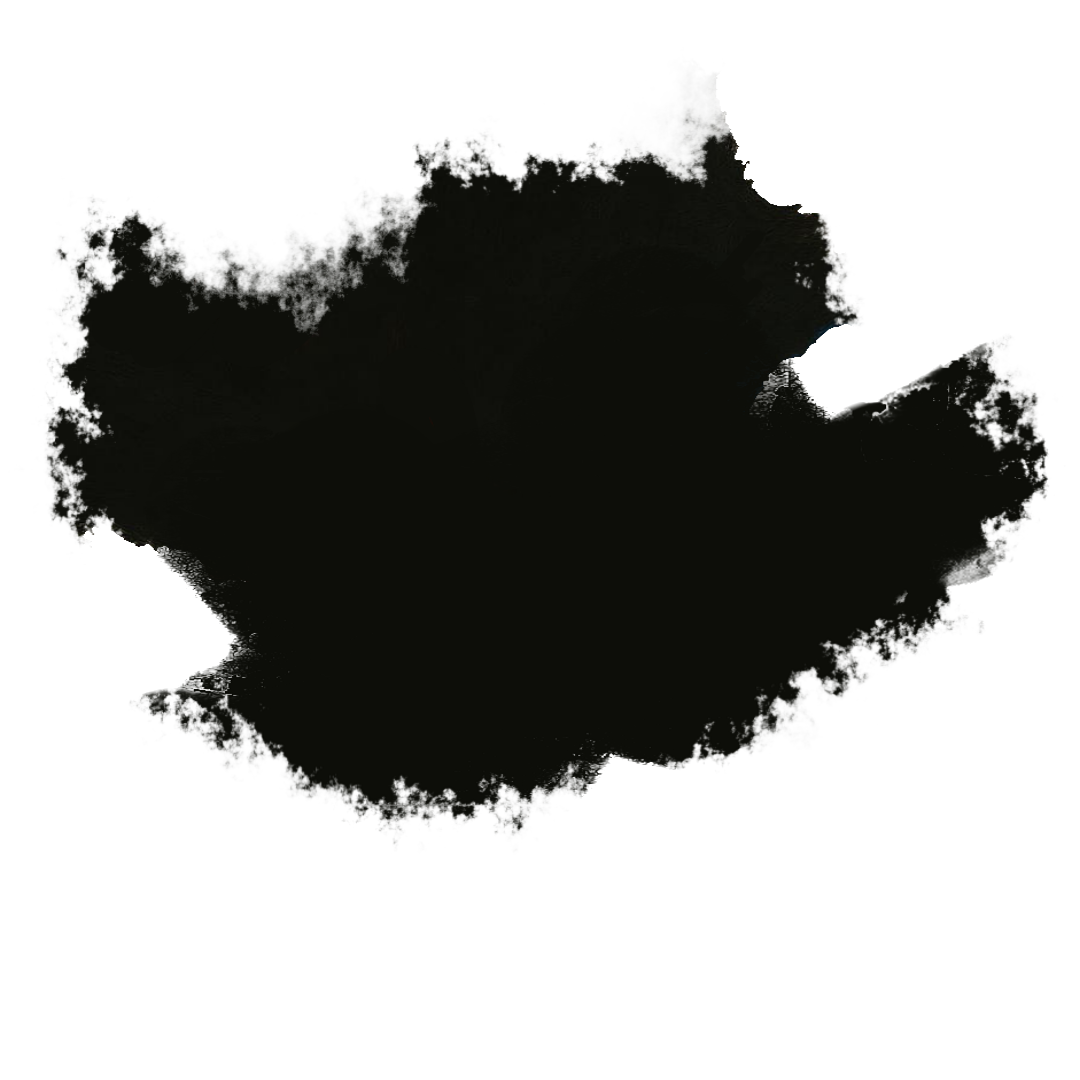
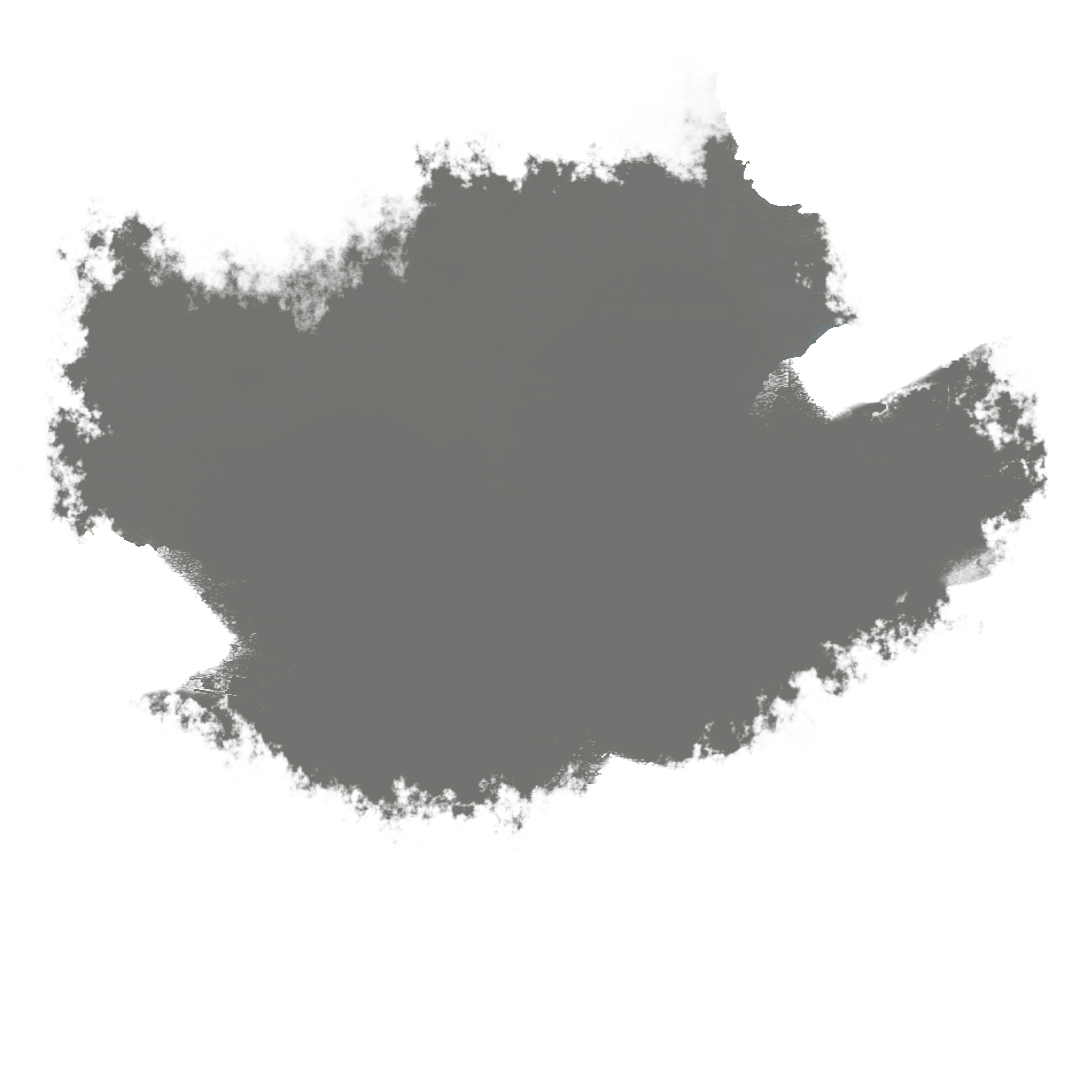
2

diff --git a/TP1 PROTOTIPO/sketch.js b/TP1 PROTOTIPO/sketch.js
@@ -7,7 +7,7 @@ let t = 0; // Variable de tiempo para la vibración lenta
 function preload(){
   imgFondo = loadImage("data/imgfondo3.jpg");
 
-  imgBlanco= loadImage("data/blanco02.png");
+  
   
   imgAmarillo = loadImage("data/amarillo01.png");
   imgNegro= loadImage("data/negro01.png");
@@ -21,24 +21,32 @@ function preload(){
 }
 
 function setup() {
-  createCanvas(windowWidth, windowHeight);
+  createCanvas(500, windowHeight);
   mic = new p5.AudioIn();
   mic.start();
+  userStartAudio(); // Importante para navegadores modernos
+  fft = new p5.FFT();
+  fft.setInput(mic);
 }
 
 let vibrar = false;
 let vibrarLento = false;
-let colorVibrante = false;
-let colorOscuro = false;
+
+
+
+
+let colorNegro = [0, 0, 0];
+
+let colorRojo = [173, 5, 0];
+
+let colorAmarillo = [240, 174, 0];
+
+let colorAzul = [19, 49, 154];
 
 let offsetNegro = 0;
-let offsetNegro1 = 0;
-let offsetNegro2 = 0;
-let offsetOtros = 0;
+let offsetColor = 0;
 let velNegro = 0;
-let velNegro1 = 0;
-let velNegro2 = 0;
-let velOtros = 0;
+let velColor = 0;
 
 function draw() {
   background(90);
@@ -46,187 +54,125 @@ function draw() {
   ellipseMode(CORNER);
 
   let micLevel = mic.getLevel();
-  fill(255);
-  ellipse(1,1, micLevel*1000);
+
+  let spectrum = fft.analyze();
+  let graves = fft.getEnergy("bass");
+  let agudos = fft.getEnergy("treble");
+
+  if (agudos > 30) {
+    velColor = 3;
+  } else {
+    velColor = 0;
+  }
+  if (graves > 30) {
+    velNegro = -3;
+  } else {
+    velNegro = 0;
+  }
 
   t += 0.02; // Incrementa el tiempo para la vibración lenta
 
   // Vibración individual para cada imagen
-  let vibNegroX, vibNegroY, vibNegro2X, vibNegro2Y;
-  let vibAmarilloX, vibAmarilloY, vibRojoX, vibRojoY;
-  let vibAzulX, vibAzulY, vibAmarillo2X, vibAmarillo2Y;
-  let vibRojo2X, vibRojo2Y, vibAzul2X, vibAzul2Y;
+  let vibNegroX, vibNegroY, vibAmarilloX, vibAmarilloY, vibRojoX, vibRojoY, vibAzulX, vibAzulY;
+  
 
   if (vibrarLento) {
     // Vibración lenta y amplia usando sin/cos
-    vibNegroX = sin(t) * 30;
-    vibNegroY = cos(t) * 30;
-    vibNegro2X = sin(t+1) * 30;
-    vibNegro2Y = cos(t+1) * 30;
-    vibAmarilloX = sin(t+2) * 30;
-    vibAmarilloY = cos(t+2) * 30;
-    vibRojoX = sin(t+3) * 30;
-    vibRojoY = cos(t+3) * 30;
-    vibAzulX = sin(t+4) * 30;
-    vibAzulY = cos(t+4) * 30;
-    vibAmarillo2X = sin(t+5) * 30;
-    vibAmarillo2Y = cos(t+5) * 30;
-    vibRojo2X = sin(t+6) * 30;
-    vibRojo2Y = cos(t+6) * 30;
-    vibAzul2X = sin(t+7) * 30;
-    vibAzul2Y = cos(t+7) * 30;
+    vibNegroX = sin(t) * 50;
+    vibNegroY = cos(t) * 50;
+    vibAmarilloX = sin(t+1) * 50;
+    vibAmarilloY = cos(t+1) * 50;
+    vibRojoX = sin(t+2) * 50;
+    vibRojoY = cos(t+2) * 50;
+    vibAzulX = sin(t+3) * 50;
+    vibAzulY = cos(t+3) * 50;
+  
   } else if (vibrar) {
     // Vibración rápida y pequeña
     vibNegroX = random(-3,3);
     vibNegroY = random(-3,3);
-    vibNegro2X = random(-3,3);
-    vibNegro2Y = random(-3,3);
+    
     vibAmarilloX = random(-3,3);
     vibAmarilloY = random(-3,3);
     vibRojoX = random(-3,3);
     vibRojoY = random(-3,3);
     vibAzulX = random(-3,3);
     vibAzulY = random(-3,3);
-    vibAmarillo2X = random(-3,3);
-    vibAmarillo2Y = random(-3,3);
-    vibRojo2X = random(-3,3);
-    vibRojo2Y = random(-3,3);
-    vibAzul2X = random(-3,3);
-    vibAzul2Y = random(-3,3);
+    
+    
   } else {
     // Sin vibración
-    vibNegroX = vibNegroY = vibNegro2X = vibNegro2Y = 0;
-    vibAmarilloX = vibAmarilloY = vibRojoX = vibRojoY = 0;
-    vibAzulX = vibAzulY = vibAmarillo2X = vibAmarillo2Y = 0;
-    vibRojo2X = vibRojo2Y = vibAzul2X = vibAzul2Y = 0;
+    vibNegroX = vibNegroY  = vibAmarilloX = vibAmarilloY = vibRojoX = vibRojoY = vibAzulX = vibAzulY  = 0;
+    
+    
+   
   }
 
-  // Antes de cada image(), pon el tint adecuado
-  if (colorVibrante) {
-    tint(255, 255, 0, 255); // Amarillo brillante (puedes variar)
-  } else if (colorOscuro) {
-    tint(50, 50, 50, 180); // Oscuro y apagado
-  } else {
-    noTint();
-  }
-  image(imgNegro, 320 + vibNegroX + offsetNegro1, 25 + vibNegroY, width, height);
+  
 
-  if (colorVibrante) {
-    tint(0, 255, 255, 255); // Cian brillante
-  } else if (colorOscuro) {
-    tint(50, 50, 80, 180);
-  } else {
-    noTint();
-  }
-  image(imgNegro2, -200 + vibNegro2X + offsetNegro2, -150 + vibNegro2Y, width, height);
+ 
+  //posicion de las manchas con sus colores originales
+tint(colorNegro);
+image(imgNegro, 200 + vibNegroX + offsetNegro, 25 + vibNegroY, width, height);
+image(imgNegro2, -100 + vibNegroX + offsetNegro, -150 + vibNegroY, width, height);
+noTint();
 
-  if (colorVibrante) {
-    tint(255, 0, 255, 255); // Magenta brillante
-  } else if (colorOscuro) {
-    tint(80, 50, 50, 180);
-  } else {
-    noTint();
-  }
-  image(imgAmarillo, -100 + vibAmarilloX + offsetOtros, 0 + vibAmarilloY, 350, height); 
+tint(colorRojo);
+image(imgRojo, 0 + vibRojoX + offsetColor, -100 + vibRojoY, width/2, height/2);
+image(imgRojo2, 70 + vibRojoX + offsetColor, 400 + vibRojoY, width/2, height/2); 
+noTint();
 
-  if (colorVibrante) {
-    tint(0, 255, 0, 255); // Verde brillante
-  } else if (colorOscuro) {
-    tint(50, 80, 50, 180);
-  } else {
-    noTint();
-  }
-  image(imgRojo, 0 + vibRojoX + offsetOtros, -100 + vibRojoY, width/2, height/2);
+tint(colorAmarillo);
+image(imgAmarillo, -100 + vibAmarilloX + offsetColor, 0 + vibAmarilloY, 350, height); 
+image(imgAmarillo2, 300 + vibAmarilloX + offsetColor, 0 + vibAmarilloY, 350, height);
+noTint();
 
-  if (colorVibrante) {
-    tint(0, 0, 255, 255); // Azul brillante
-  } else if (colorOscuro) {
-    tint(50, 50, 80, 180);
-  } else {
-    noTint();
-  }
-  image(imgAzul, -100 + vibAzulX + offsetOtros, 400 + vibAzulY, width/2, height/2);
+tint(colorAzul);
+image(imgAzul, -100 + vibAzulX + offsetColor, 400 + vibAzulY, width/2, height/2);
+image(imgAzul2, 400 + vibAzulX + offsetColor, -180 + vibAzulY, width/2, height/2);
+noTint(); 
+  
+  
+  fill(255);
+  textSize(16);
+  text("Graves: " + graves, 10, 30);
+  text("Agudos: " + agudos, 10, 50);
 
-  if (colorVibrante) {
-    tint(255, 165, 0, 255); // Naranja brillante
-  } else if (colorOscuro) {
-    tint(80, 50, 20, 180);
-  } else {
-    noTint();
-  }
-  image(imgAmarillo2, 600 + vibAmarillo2X + offsetOtros, 0 + vibAmarillo2Y, 350, height); 
-
-  if (colorVibrante) {
-    tint(75, 0, 130, 255); // Índigo brillante
-  } else if (colorOscuro) {
-    tint(20, 20, 50, 180);
-  } else {
-    noTint();
-  }
-  image(imgRojo2, 70 + vibRojo2X + offsetOtros, 350 + vibRojo2Y, width/2, height/2);
-
-  if (colorVibrante) {
-    tint(238, 130, 238, 255); // Violeta brillante
-  } else if (colorOscuro) {
-    tint(50, 20, 50, 180);
-  } else {
-    noTint();
-  }
-  image(imgAzul2, 500 + vibAzul2X + offsetOtros, -100 + vibAzul2Y, width/2, height/2);
-
-  noTint(); // Al final, para no afectar otros dibujos
-
-  offsetNegro1 += velNegro1;
-  offsetNegro2 += velNegro2;
-
-  offsetNegro1 = (offsetNegro1 + width + imgNegro.width) % (width + imgNegro.width);
-  offsetNegro2 = (offsetNegro2 + width + imgNegro2.width) % (width + imgNegro2.width);
-  offsetOtros += velOtros;
-
-  // Luego aplica el módulo para que vuelvan a entrar por el otro lado:
-  offsetOtros = (offsetOtros + width + 350) % (width + 350); // 350 es el ancho de imgAmarillo, por ejemplo
+  // Actualiza los offsets con la velocidad
+  offsetNegro += velNegro;
+  offsetColor += velColor;
+fill(255);
+  ellipse(1,1, micLevel*1000);
+  
 }
 
 // Activa/desactiva vibración con la tecla "v"
 function keyPressed() {
-  if (key === 'v' || key === 'V') {
+  if (key === 'z' ) {
     vibrar = !vibrar;
     vibrarLento = false;
   }
-  if (key === 'l' || key === 'L') {
+  if (key === 'x' ) {
     vibrarLento = !vibrarLento;
     vibrar = false;
   }
-  if (key === 'c' || key === 'C') { // Colores vibrantes
-    colorVibrante = true;
-    colorOscuro = false;
+  
+
+  if (key === "q") {
+    colorNegro = [250,250,250];
+    colorRojo = [252,111,74];
+    colorAmarillo = [254,243,103];
+    colorAzul = [104,205,253];
   }
-  if (key === 'o' || key === 'O') { // Colores oscuros
-    colorOscuro = true;
-    colorVibrante = false;
-  }
-  if (key === 'n' || key === 'N') { // Normal
-    colorVibrante = false;
-    colorOscuro = false;
-  }
-  if (key === 'a' || key === 'A') {
-    velNegro1 = -3;
-    velNegro2 = -3;
-  }
-  if (key === 'd' || key === 'D') {
-    velOtros = 3; // velocidad hacia la derecha
+  if (key === "e") {
+    colorNegro = [0,0,0];
+    colorRojo = [54,7,2];
+    colorAmarillo = [117,91,0];
+    colorAzul = [1,18,61];
   }
 }
 
-function keyReleased() {
-  if (key === 'a' || key === 'A') {
-    velNegro1 = 0;
-    velNegro2 = 0;
-  }
-  if (key === 'd' || key === 'D') {
-    velOtros = 0;
-  }
-}
+
 
 
 
